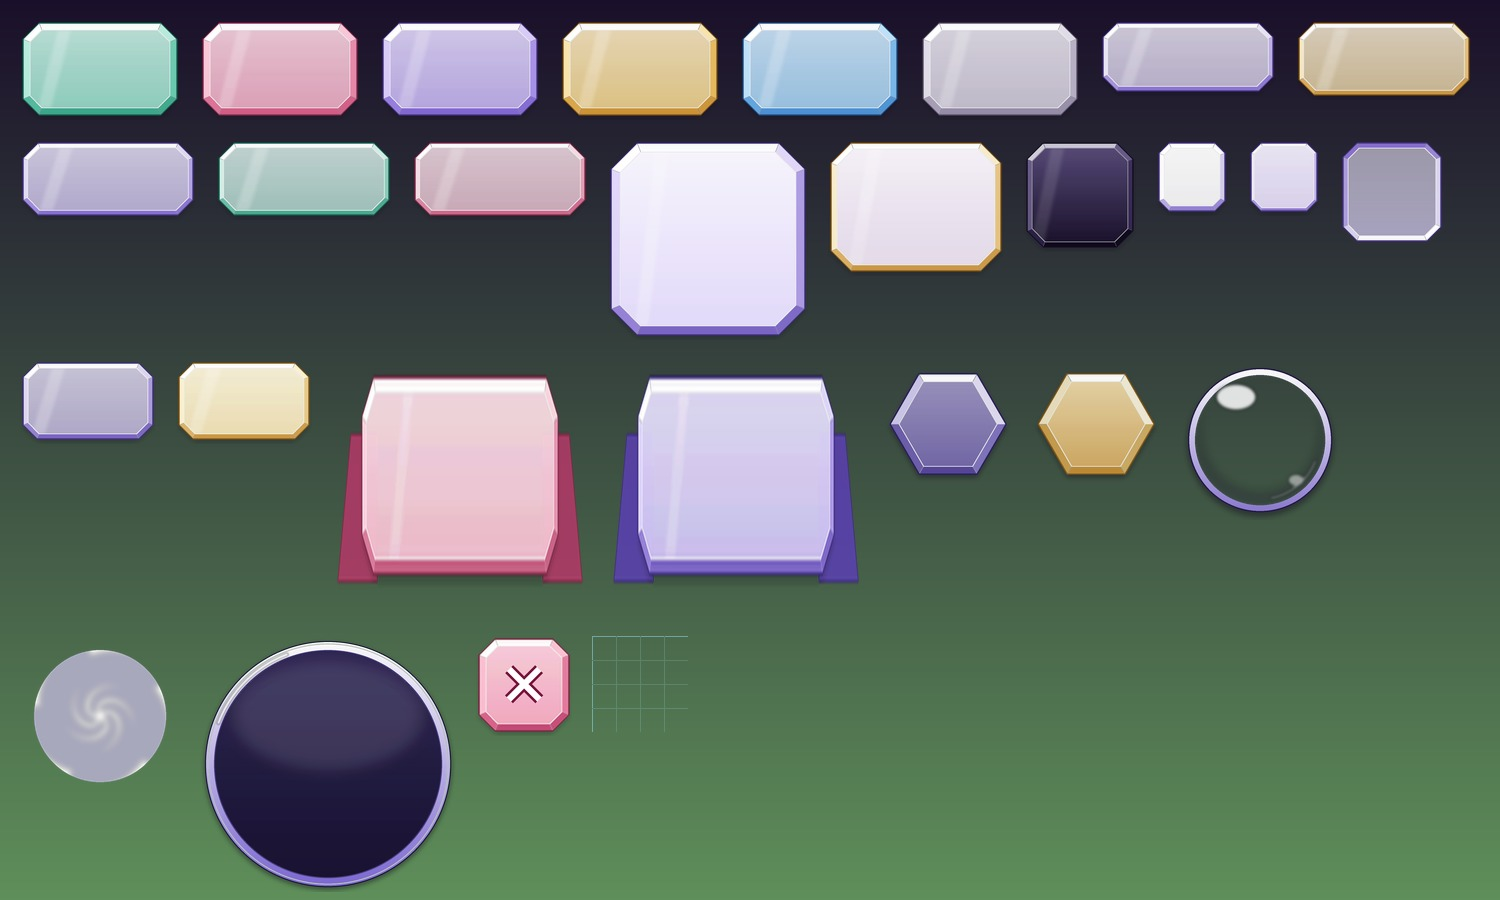
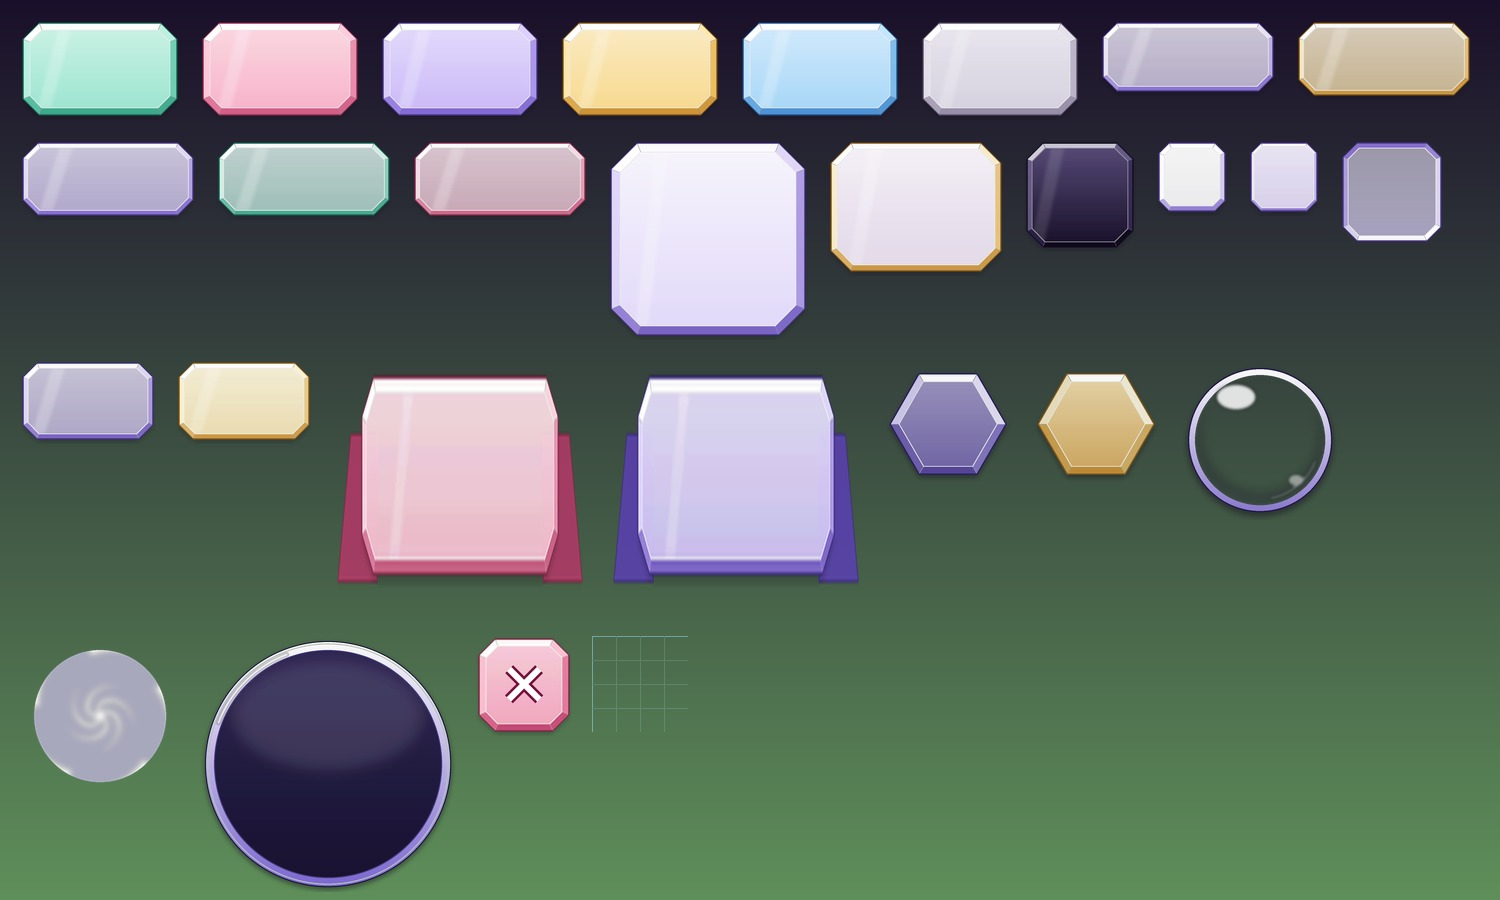
Make button glass nearly solid so action buttons do not go dull over a dark cave.

Changed region(s): [[0.0, 0.0311, 0.7053, 0.1244]]

diff --git a/art/pd_ui_cutglass.py b/art/pd_ui_cutglass.py
@@ -105,7 +105,7 @@ FACE = (H("#fbf9ff", 228), H("#e9e1ff", 216))
 BTN = {"mint": ("#7fe6c6", "#1f8f72"), "pink": ("#ff9fbd", "#c2416f"), "lilac": ("#bfa8ff", "#6a4fc4"),
        "butter": ("#ffd66b", "#b9791c"), "sky": ("#8fd2ff", "#2f78c4"), "off": ("#cfc8dc", "#7f7592")}
 for n, (t, dp) in BTN.items():
-    save(n, cut(160, 100, 16, H(t), H(dp), a_top=226, a_bot=214, bevel=7), (42, 40, 118, 52))
+    save(n, cut(160, 100, 16, H(t), H(dp), a_top=252, a_bot=246, bevel=7), (42, 40, 118, 52))  # buttons are nearly solid: at 226 they went dull tan over a dark cave
 save("pill", cut(176, 76, 14, H("#e6dcff"), H("#6a4fc4"), a_top=206, a_bot=186, bevel=4.5), (40, 31, 136, 37))
 for n, (t, dp) in {"pillButter": ("#ffe39a", "#b9791c"), "pillLilac": ("#d6c8ff", "#6a4fc4"), "pillMint": ("#b4f0dc", "#1f8f72"), "pillPink": ("#ffc8d8", "#c2416f")}.items():
     save(n, cut(176, 80, 15, H(t), H(dp), a_top=210, a_bot=190, bevel=4.5), (40, 33, 136, 41))
